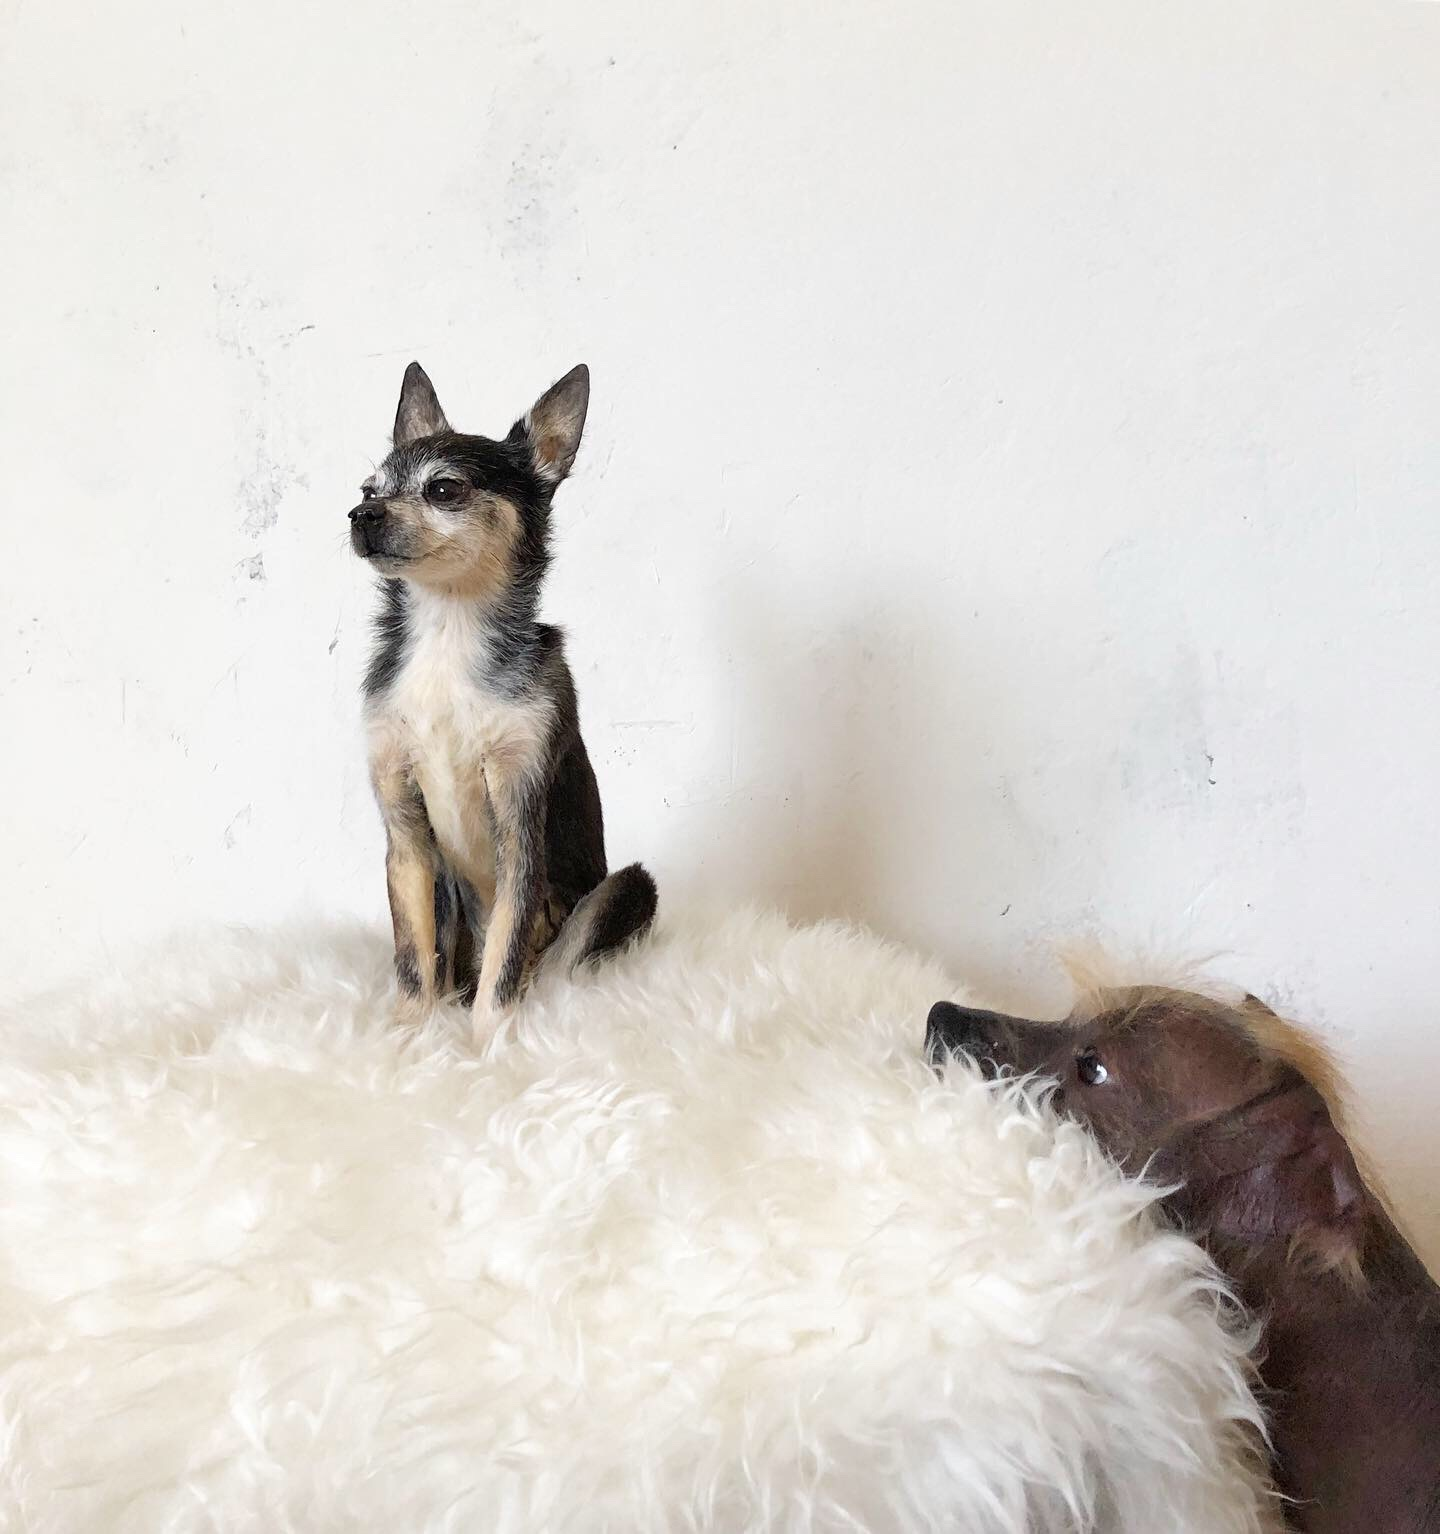
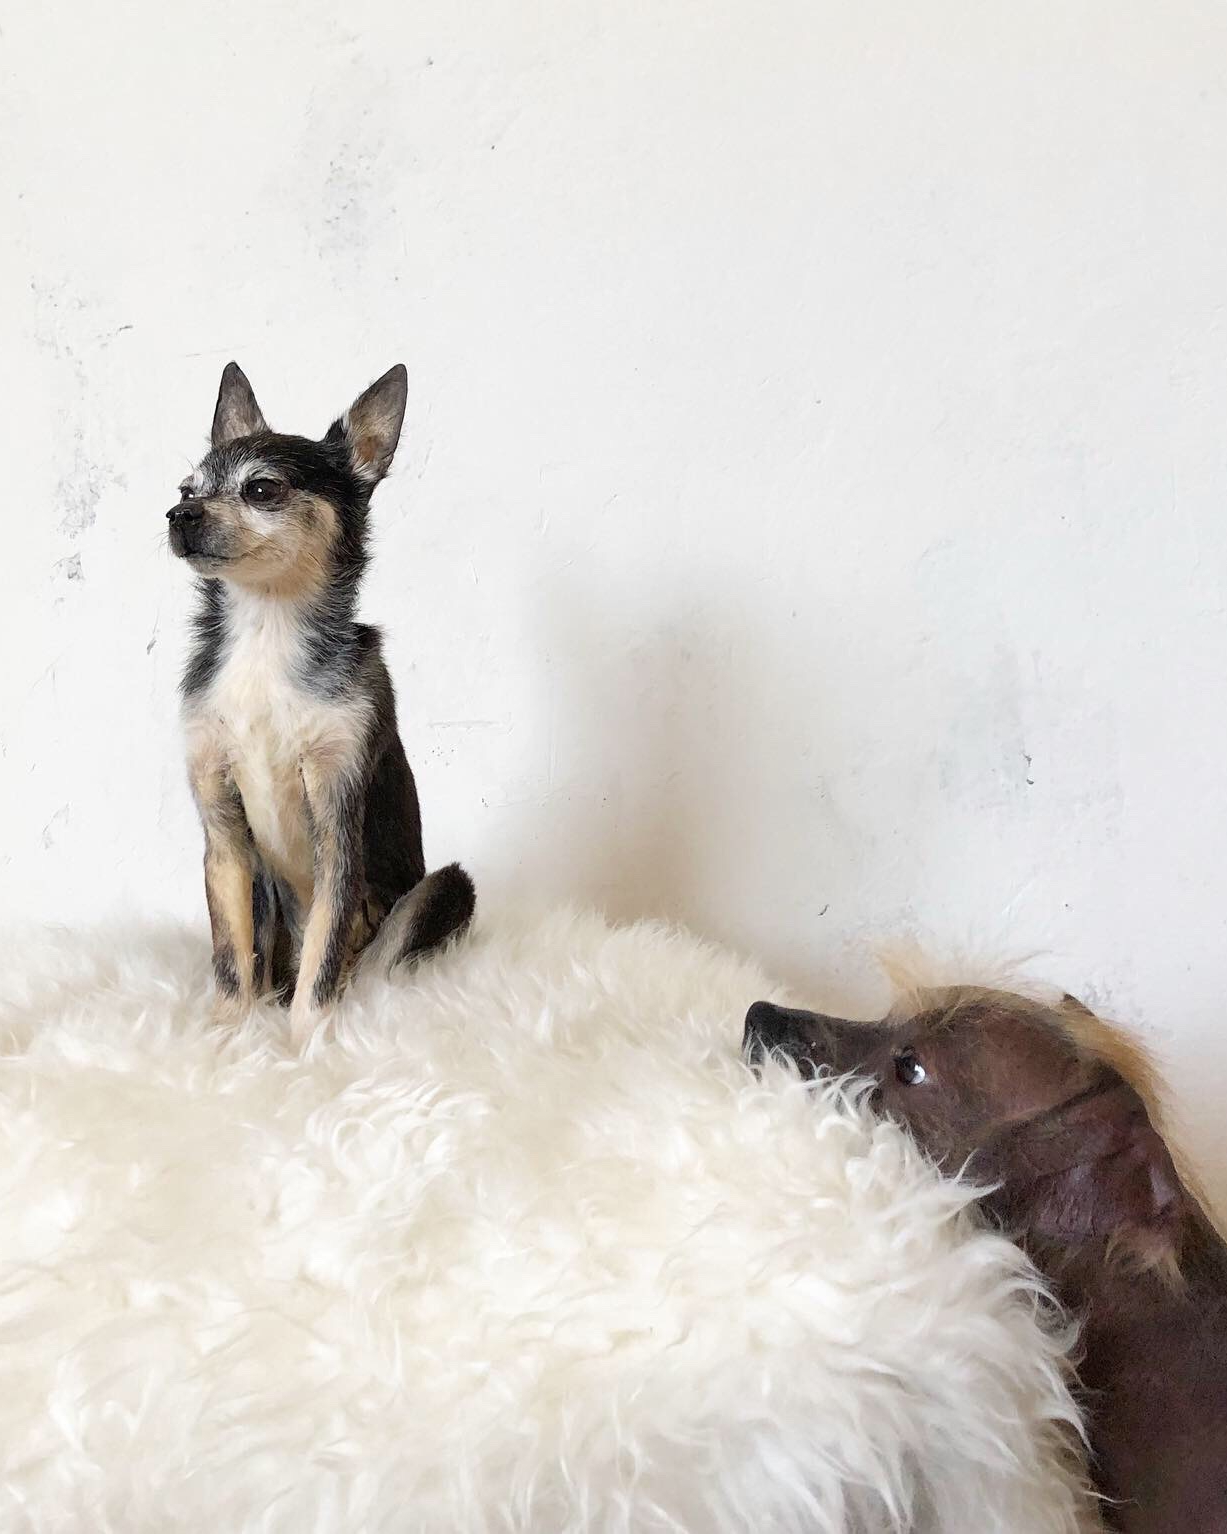
Full images, breakpoint fixing, making images fluid

diff --git a/dist/contact.html b/dist/contact.html
@@ -4,7 +4,7 @@
   <meta charset="utf-8">
   <meta name="viewport" content="width=device-width, initial-scale=1">
   <title>Precious Creature Pet Taxidermy | Contact</title>
-  <meta name="description" content="You can contact Precious Creature by phone or email.">
+  <meta name="description" content="Precious Creature is a pet aftercare taxidermy service in California.">
 
   <!-- Favicon -->
   <link rel="icon" href="assets/img/favicon.png">
@@ -88,17 +88,17 @@
           <div class="col-lg-8">
             <form id="fs-frm" name="services-inquiry" accept-charset="utf-8" action="https://formspree.io/f/moqbgqqj" method="post">
             <fieldset id="fs-frm-inputs">
-              <label for="full-name">Full Name</label>
+              <label for="full-name"><h5>Full Name</h5><p class="text-warning">&nbsp; required</p></label>
               <input type="text" name="name" id="full-name" placeholder="First and Last" required="">
-              <label for="email-address">Email Address</label>
+              <label for="email-address"><h5>Email Address</h5><p class="text-warning">&nbsp; required</p></label></label>
               <input type="email" name="_replyto" id="email-address" placeholder="email@domain.tld" required="">
               <fieldset class="locale">
-              <label for="phone">Phone Number</label>
-              <input type="text" name="phone" id="phone" placeholder="555-555-1234" required="">
+              <label for="phone"><h5>Phone Number</h5></label>
+              <input type="text" name="phone" id="phone" placeholder="555-555-1234">
               <fieldset class="locale">
-                <legend>Locale</legend>
-                <input type="text" name="city" placeholder="City" required="">
-                <select name="state" required="">
+                <legend><h5>Location</h5></legend>
+                <input type="text" name="city" placeholder="City">
+                <select name="state">
                   <option value="" selected="" disabled="">State</option>
                   <option value="AL">Alabama</option>
                   <option value="AK">Alaska</option>
@@ -152,20 +152,20 @@
                   <option value="WI">Wisconsin</option>
                   <option value="WY">Wyoming</option>
                 </select>
-                <input type="text" name="postal-code" placeholder="12345" required="">
+                <input type="text" name="postal-code" placeholder="12345">
               </fieldset>
-              <label for="species">Is your pet a cat, dog, or something else?</label>
-                <select name="Species" required="">
+              <label for="species"><h5>Is your pet a cat, dog, or something else?</h5><p class="text-warning">&nbsp; required</p></label>
+                <select name="Species" required = "">
                   <option value="" selected="" disabled="">Type of pet</option>
                   <option value="Cat">Cat</option>
                   <option value="Dog">Dog</option>
                   <option value="Other">Other</option>
                 </select>
-                  <label for="services">Are there any specific services that you'd like to discuss?</label>
-              <input type="text" name="services" id="services" placeholder="See 'Preservation' and 'Burial' for more information" required="">
-                  <label for="weight">What is your pet's weight?</label>
-              <input type="text" name="weight" id="weight" placeholder="lbs" required="">
-              <label for="note">If there's any additional information you'd like to provide, please do so here.</label>
+                  <label for="services"><h5>Are there any specific services that you'd like to discuss?</h5><p class="text-warning">required</p></label>
+              <input type="text" name="services" id="services" placeholder="See 'Preservation' and 'Burial' for more information" required = "">
+                  <label for="weight"><h5>What is your pet's weight?</h5><p class="text-warning">&nbsp; required</p></label>
+              <input type="text" name="weight" id="weight" placeholder="lbs" required = "">
+              <label for="note"><h5>If there's any additional information you'd like to provide, please do so here.</h5></label>
               <textarea rows="2" name="note" id="note" placeholder="Any additional information"></textarea>
               <input type="hidden" name="_subject" id="email-subject" value="Form: services inquiry ">
             </fieldset>

diff --git a/dist/preservation.html b/dist/preservation.html
@@ -85,7 +85,7 @@
 
   <!-- Cards -->
   <div class="container mb-4">
-    <div class="row gy-4 pb-5 pb-lg-6 row-cols-4 row-cols-md-4 g-4">
+    <div class="row gy-4 pb-5 pb-lg-6 row-cols-2 row-cols-md-4 g-4">
       <div class="col-sm">
         <div class="card rounded bg-secondary h-100" >
           <img src="assets/img/fur/fur1thumb.jpg" class="card-img-top" alt="...">
@@ -328,7 +328,7 @@
       </div>
       <div class="col-lg-7">
         <h1 class="fw-normal text-dark">Casts</h1>
-        <p class="fw-light text-dark">Casts allow families to honor the memory of a loved pet without the preservation of their original fur or bones. Instead, alternative materials such as X and X are used to accurately and intimately represent your pet's nose, paws, or other preferred aspect from life.</p>
+        <p class="fw-light text-dark">Casts allow families to honor the memory of a loved pet without the preservation of their original fur or bones. Instead, alternative materials are used to accurately and intimately represent your pet's nose, paws, or other preferred aspect from life.</p>
       </div>
     </div>
     <div class="border border-6 border-dark w-100 my-4 border-opacity-25"></div>
@@ -343,43 +343,25 @@
           <div id="carouselComplete" class="carousel slide carousel-fade" data-bs-ride="carousel">
             <div class="carousel-inner h-25">
               <div class="carousel-item active">
-                <img src="assets/img/fur/fur1.jpg" class="d-block w-100" alt="...">
+                <img src="assets/img/full/full1.jpg" class="d-block w-100" alt="...">
               </div>
               <div class="carousel-item">
-                <img src="assets/img/fur/fur2.jpg" class="d-block w-100" alt="...">
+                <img src="assets/img/full/full2.jpg" class="d-block w-100" alt="...">
               </div>
               <div class="carousel-item">
-                <img src="assets/img/fur/fur3.jpg" class="d-block w-100" alt="...">
+                <img src="assets/img/full/full3.jpg" class="d-block w-100" alt="...">
               </div>
               <div class="carousel-item">
-                <img src="assets/img/fur/fur4.jpg" class="d-block w-100" alt="...">
+                <img src="assets/img/full/full4.jpg" class="d-block w-100" alt="...">
               </div>
               <div class="carousel-item">
-                <img src="assets/img/fur/fur5.jpg" class="d-block w-100" alt="...">
+                <img src="assets/img/full/full5.jpg" class="d-block w-100" alt="...">
               </div>
               <div class="carousel-item">
-                <img src="assets/img/fur/fur6.jpg" class="d-block w-100" alt="...">
+                <img src="assets/img/full/full6.jpg" class="d-block w-100" alt="...">
               </div>
               <div class="carousel-item">
-                <img src="assets/img/fur/fur7.jpg" class="d-block w-100" alt="...">
-              </div>
-              <div class="carousel-item">
-                <img src="assets/img/fur/fur8.jpg" class="d-block w-100" alt="...">
-              </div>
-              <div class="carousel-item">
-                <img src="assets/img/fur/fur9.jpg" class="d-block w-100" alt="...">
-              </div>
-              <div class="carousel-item">
-                <img src="assets/img/fur/fur10.jpg" class="d-block w-100" alt="...">
-              </div>
-              <div class="carousel-item">
-                <img src="assets/img/fur/fur11.jpg" class="d-block w-100" alt="...">
-              </div>
-              <div class="carousel-item">
-                <img src="assets/img/fur/fur12.jpg" class="d-block w-100" alt="...">
-              </div>
-              <div class="carousel-item">
-                <img src="assets/img/fur/fur13.jpg" class="d-block w-100" alt="...">
+                <img src="assets/img/full/full7.jpg" class="d-block w-100" alt="...">
               </div>
             </div>
             <button class="carousel-control-prev" type="button" data-bs-target="#carouselComplete" data-bs-slide="prev">

diff --git a/dist/burial.html b/dist/burial.html
@@ -83,8 +83,8 @@
 
   <!-- Cards -->
   <div class="container mb-4">
-    <div class="row gy-4 pb-5 pb-lg-6 row-cols-4 row-cols-md-4 g-4">
-      <div class="col-sm">
+    <div class="row gy-4 pb-5 pb-lg-6 row-cols-2 row-cols-lg-4 g-4">
+      <div class="col-md">
         <div class="card rounded bg-secondary h-100">
           <div class="card-header text-center">
             <i class="fa-solid fa-leaf fa-6x text-success"></i>
@@ -95,7 +95,7 @@
           </div>
         </div>
       </div>
-      <div class="col-sm">
+      <div class="col-md">
         <div class="card rounded bg-secondary h-100">
           <div class="card-header text-center">
             <i class="fa-solid fa-place-of-worship fa-6x"></i>
@@ -106,18 +106,18 @@
           </div>
         </div>
       </div>
-      <div class="col-sm">
+      <div class="col-md">
         <div class="card rounded bg-secondary h-100">
           <div class="card-header text-center">
             <i class="fa-solid fa-fire-flame-curved fa-6x text-primary"></i>
           </div>
           <div class="card-body">
             <h3 class="card-title text-light text-center">Cremation</h5>
-            <p class="card-text text-light">The traditional burning of a deceased's remains results in ashes that you can then spread or house in an urn or other vessel. We have collected a number of antique vessels.</p>
+            <p class="card-text text-light">The traditional burning of a deceased's remains results in ashes that you can then spread or house in an urn or other vessel. We have collected a number of antique vessels for your consideration.</p>
           </div>
         </div>
       </div>
-            <div class="col-sm">
+            <div class="col-md">
         <div class="card rounded bg-secondary h-100">
           <div class="card-header text-center">
             <i class="fa-solid fa-water fa-6x text-info"></i>

diff --git a/dist/about.html b/dist/about.html
@@ -85,7 +85,7 @@
       <div class="bg-white mt-n5 mt-lg-n6 px-3 px-lg-0">
         <div class="row justify-content-center py-4 py-md-5">
           <div class="col-md-10 col-lg-8">
-            <img src="assets/img/lauren1.jpg" class="col-md-5 rounded-3 shadow-lg border float-md-end mb-3 ms-md-3" alt="...">
+            <img src="assets/img/lauren1.jpg" class="img-fluid col-md-5 rounded-3 shadow-lg border float-md-end mb-3 ms-md-3" alt="...">
             <p><strong>Precious Creature is a full-time alternative pet aftercare business/passion</strong> located in the magical Mojave desert, just outside of Joshua Tree National Park in the city of Twentynine Palms. With a lifelong love of animals, art, and death care, owner and trained taxidermist Lauren Kane marries all three together to bring a renewed vision to pet aftercare.</p>
 <p>We are mostly a one-woman operation, but we also receive assistance from our lovely apprentice, Magnolia Mills, and our partnered colleagues at Paws and Claws Aquamation and Memorials, Gateway Pet Cemetery, and Valley Fur Shed Tannery. Our work is featured regularly in media including the New York Times and books on death and taxidermy.</p>
 <p>Lauren lives in a cozy desert neighborhood with her familiars, Laika, Mortimer, and Fiore. She is inspired by Victorian and world mourning practices, natural history, pets here and here no longer, and star-crossed souls.</p>

diff --git a/dist/index.html b/dist/index.html
@@ -72,7 +72,7 @@
   <!-- Header -->
     <div class="container py-5 text-dark clearfix">
     <div class="col-xxl-10">
-      <img src="assets/img/cover1.jpg" class="col-md-5 rounded-3 shadow-lg border float-md-end mb-3 ms-md-5" alt="...">
+      <img src="assets/img/cover1.jpg" class="img-fluid col-md-5 rounded-3 shadow-lg border float-md-end mb-3 ms-md-5" alt="...">
       <h1 class="display-5">Remember your pet, your way.</h1>
       <div class="border border-6 border-dark w-25 my-4"></div>
       <p class="font-serif lead mb-4">At Precious Creature, our focus is on providing compassionate and judgement-free pet aftercare, memorial, and preservation. </p>
